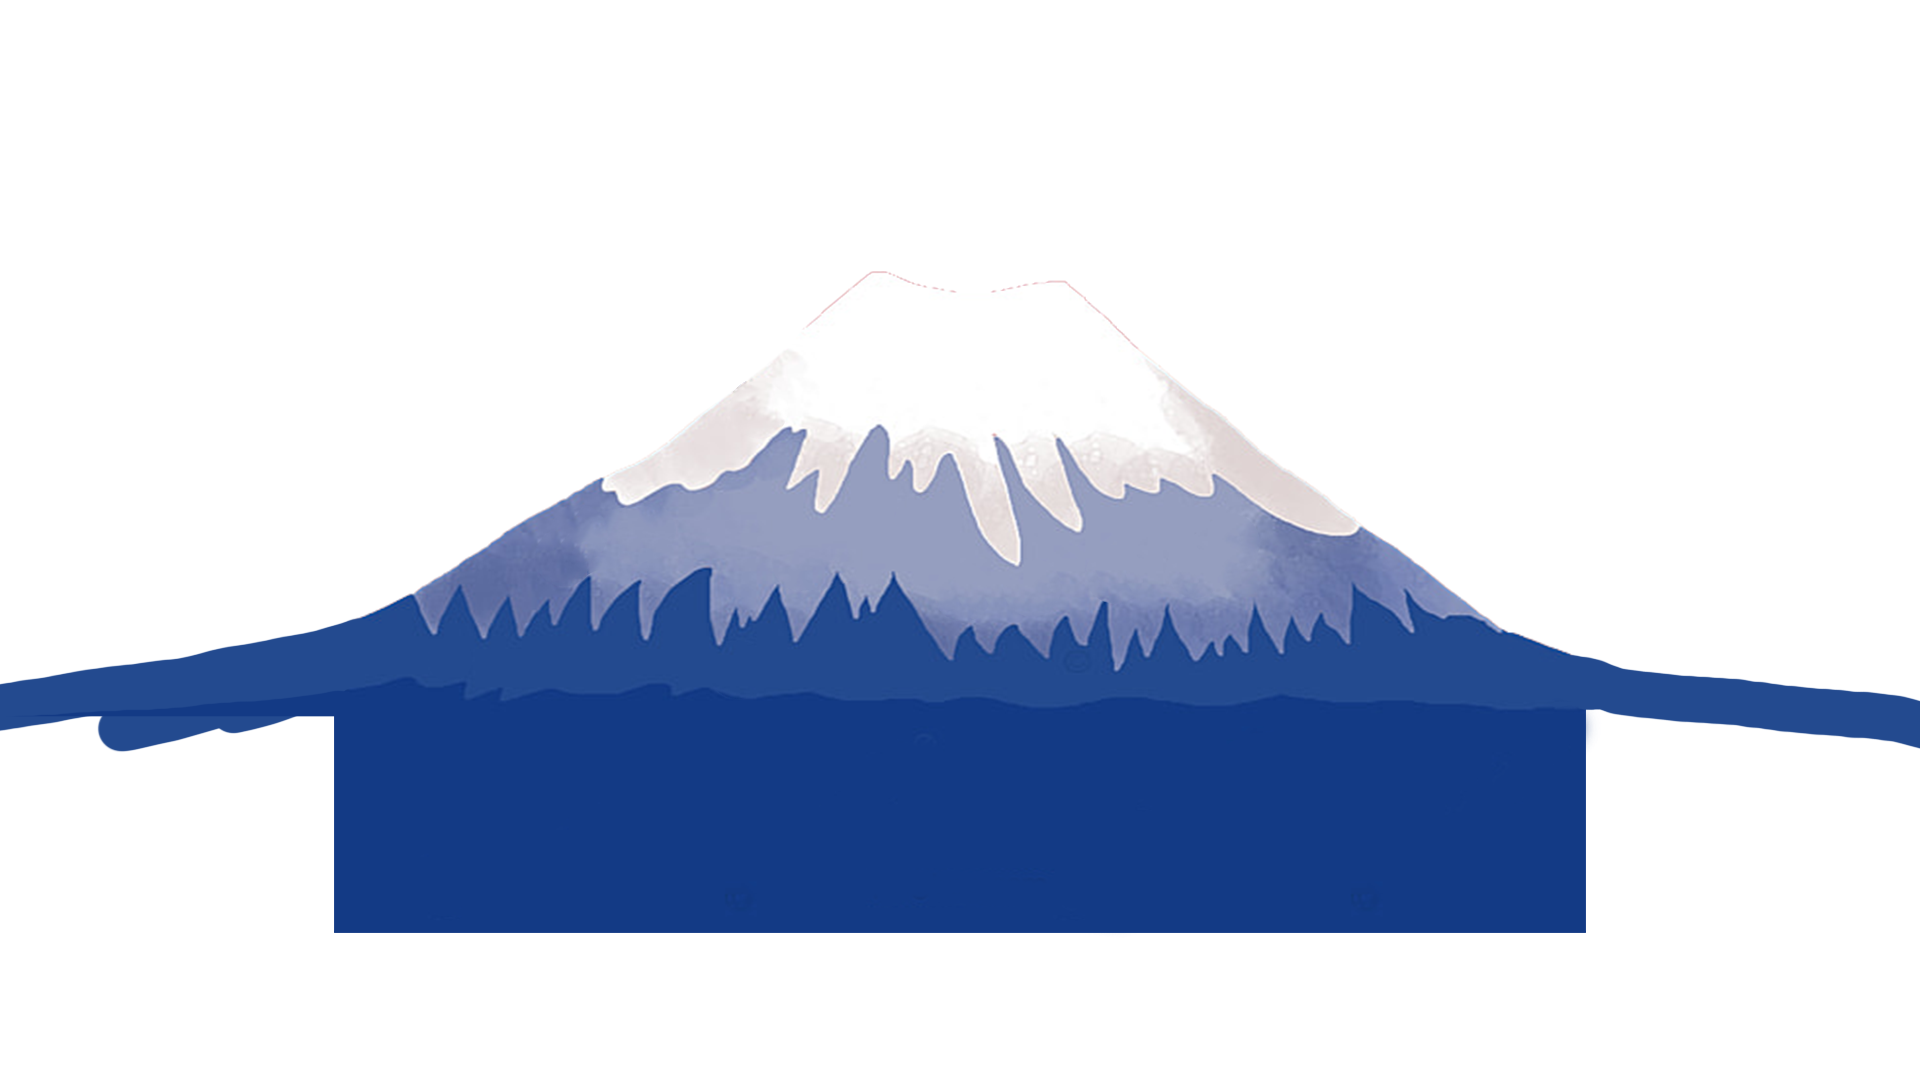
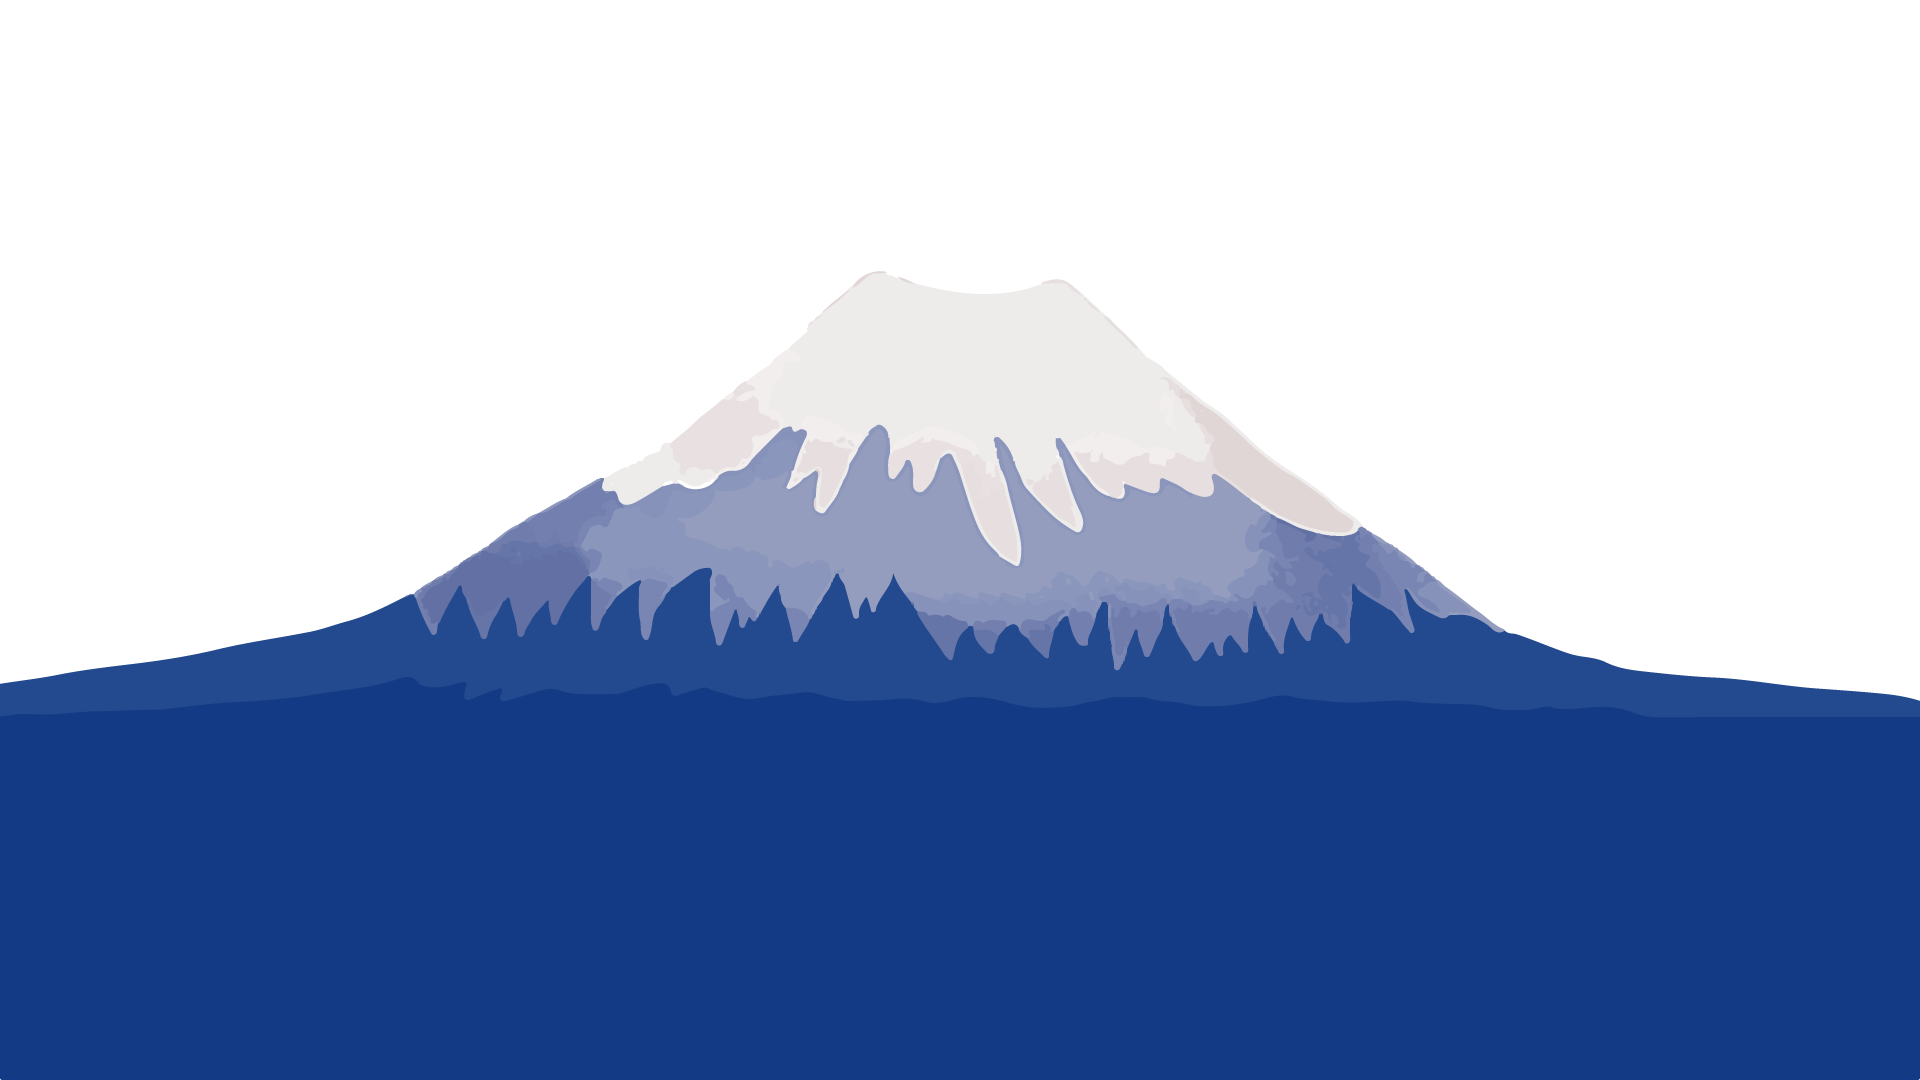
update site

Changed region(s): [[0.0, 0.6417, 1.0, 1.0]]

diff --git a/styles.css b/styles.css
@@ -1,8 +1,11 @@
 @font-face {
     font-family: 'orientalregular';
-    src: url('./font/LaOriental.otf');
+    src: url('./font/LaOriental.otf') format("opentype");
+}
 
-
+@font-face {
+    font-family: 'advantage';
+    src: url('./font/Advantage.ttf');
 }
 
 * {
@@ -16,8 +19,8 @@
 
 body {
     overflow-x: hidden;
-    background: #c1cff3;
     min-height: 100vh;
+    background: #133a85;
 }
 
 #header {
@@ -30,15 +33,18 @@ body {
     justify-content:space-between;
     align-items: center;
     margin-bottom: 40px;
+    background: #c1cff3;
 }
 
 #header .logo {
     color: #fff;
-    font-weight: 700;
+    font-weight: 100;
     font-size: 2em;
+    margin-top: 4px;
     text-decoration: none;
-    font-family: 'orientalregular';
+    font-family: 'advantage';
     letter-spacing:4px;
+    text-shadow: .75px 1.75px #3b3b3b;
 }
 
 #header ul {
@@ -51,7 +57,7 @@ body {
     margin-left: 2em;
     list-style: none;
     font-weight: bold;
-    transform:translateY(25%)
+    
 }
 
 #header ul li a{
@@ -73,27 +79,31 @@ body {
 }
 
 section {
-    margin-top: 100px;
+    margin-top: 5em;
     position: relative;
     width: 100%;
     min-height: 100vh;
     display:flex;
     justify-content: center;
     align-items: center;
-    pointer-events: none
+    pointer-events: none;
+    background: #c1cff3;
 }
 
 section #text {
     position:absolute;
     color:black;
     text-align:center;
-    font-size:6em;
+    top:305px;
+    font-size:5em;
     pointer-events: none;
-    font-family:'orientalregular';
-    letter-spacing: 4px;
-    pointer-events: none;
+    font-family:'advantage';
+    letter-spacing: 10px;
+    font-weight: 100;
     z-index: 1000;
+    text-shadow: 1px 2px #b32323;
 }
+
 
 section img {
     position:absolute;
@@ -104,6 +114,8 @@ section img {
     object-fit:cover;
     pointer-events: none;
 }
+
+
 
 #backdrop {
     z-index: -1;
@@ -125,10 +137,19 @@ section img {
     z-index: 25;
 }
 
-#gate {
+#horizon {
     z-index: 9;
 }
 
+#logoName {
+    z-index: 1000;
+    width:500px;
+}
+
+#gate {
+    z-index: 9;
+    left: 15px;
+}
 
 #btn {
     text-decoration: none;
@@ -137,14 +158,14 @@ section img {
     border-radius: 40px;
     background-color: #b32323;
     letter-spacing: 1px;
-    transform: translateY(150px);
+    transform: translateY(50px);
     z-index: 999;
 }
 
 #btn h5 {
     color:white;
 }
- 
+
 
 #btn a:hover {
     color: rgb(46, 80, 131);
@@ -156,6 +177,7 @@ section img {
     position: relative;
     padding: 100px;
     background: #133a85;
+    z-index: 1000;
 }
 
 .bottom h2 {

diff --git a/index.html b/index.html
@@ -1,6 +1,7 @@
 <!DOCTYPE html>
 <head>
   <link rel="stylesheet" href="styles.css" />
+  <script type="text/javascript" src="js/script.js"></script>
   <title>Fuji Imports</title>
 </head>
 
@@ -18,13 +19,15 @@
   <section>
     <img src="img/CherryBlossom.png" id="CherryBlossom">
     <img src="img/leaves.png" id="leaves">
-    <img src="img/gate.png" id="gate">
+    <img src="" id="gate">
     <img src="img/Mountain.png" id="mountain">
     <img src="img/Sun.png" id="sun">
-    <img src="img/BlueHorizon.png" id="horizon">
     <img src="img/c1cff3.png" id="backdrop">
+
+
     <h2 id="text">Fuji<br />Imports</h2>
-    <a href="#" id="btn"><h5>View Garage</h5></a>
+
+    <a href="#" id="btn"><h5>View Stock</h5></a>
   </section>
   <div class="bottom">
     <h2>Japanese Imports</h2>
@@ -39,4 +42,28 @@
       ligula tortor. Mauris dapibus suscipit scelerisque.
     </p>
   </div>
+  <script>
+    const cherry = document.getElementById('CherryBlossom');
+    const leaves = document.getElementById('leaves');
+    const mountain = document.getElementById('mountain');
+    const sun = document.getElementById('sun');
+    const horizon = document.getElementById('horizon');
+    const backdrop = document.getElementById('backdrop');
+
+    const text = document.getElementById('text');
+    const btn = document.getElementById('btn');
+
+    window.addEventListener('scroll', function () {
+        let scrollDistance = window.scrollY;
+        leaves.style.top = scrollDistance * .4 +'px';
+        sun.style.top = scrollDistance * 1.65+ 'px';
+        sun.style.width = 100 + -scrollDistance / 5+ '%';
+        sun.style.left = scrollDistance * 3 +'px'
+        mountain.style.width = 100 + scrollDistance / 45 + '%';
+        mountain.style.left = scrollDistance * -0.22 +'px';
+        text.style.top = 305 + scrollDistance * 0.1 + 'px';
+        btn.style.top = 450 + scrollDistance * 1 + 'px';
+
+    });
+  </script>
 </body>

diff --git a/script.js b/script.js
@@ -1,0 +1,14 @@
+const cherry = document.getElementById('CherryBlossom');
+const leaves = document.getElementById('leaves');
+const mountain = document.getElementById('mountain');
+const sun = document.getElementById('sun');
+const horizon = document.getElementById('horizon');
+const backdrop = document.getElementById('backdrop');
+
+const text = document.getElementById('text');
+
+window.addEventListener('scroll', function () {
+    let scrollDistance = window.scrollY;
+
+    leaves.style.top = scrollDistance * 20 +'px';
+} );
